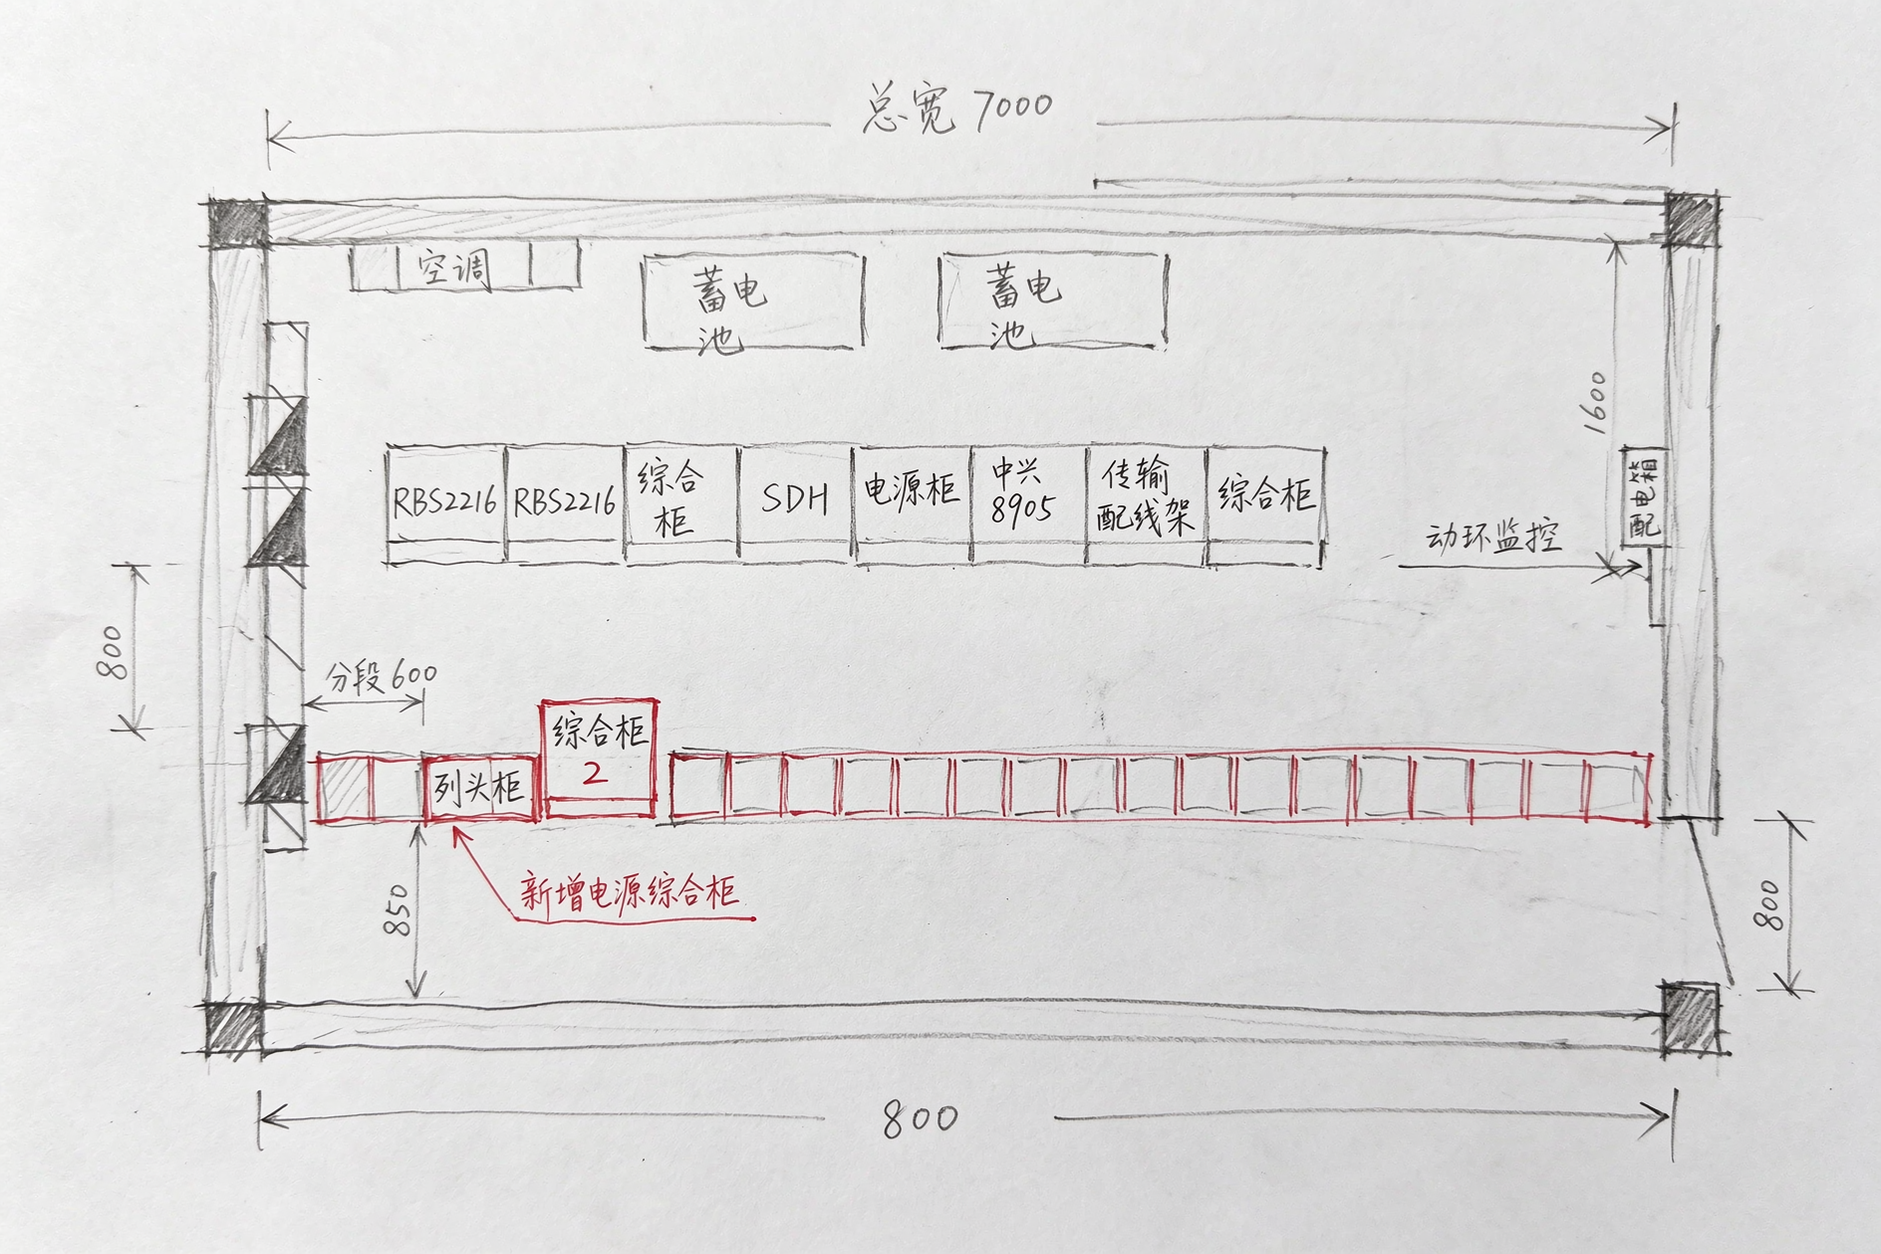
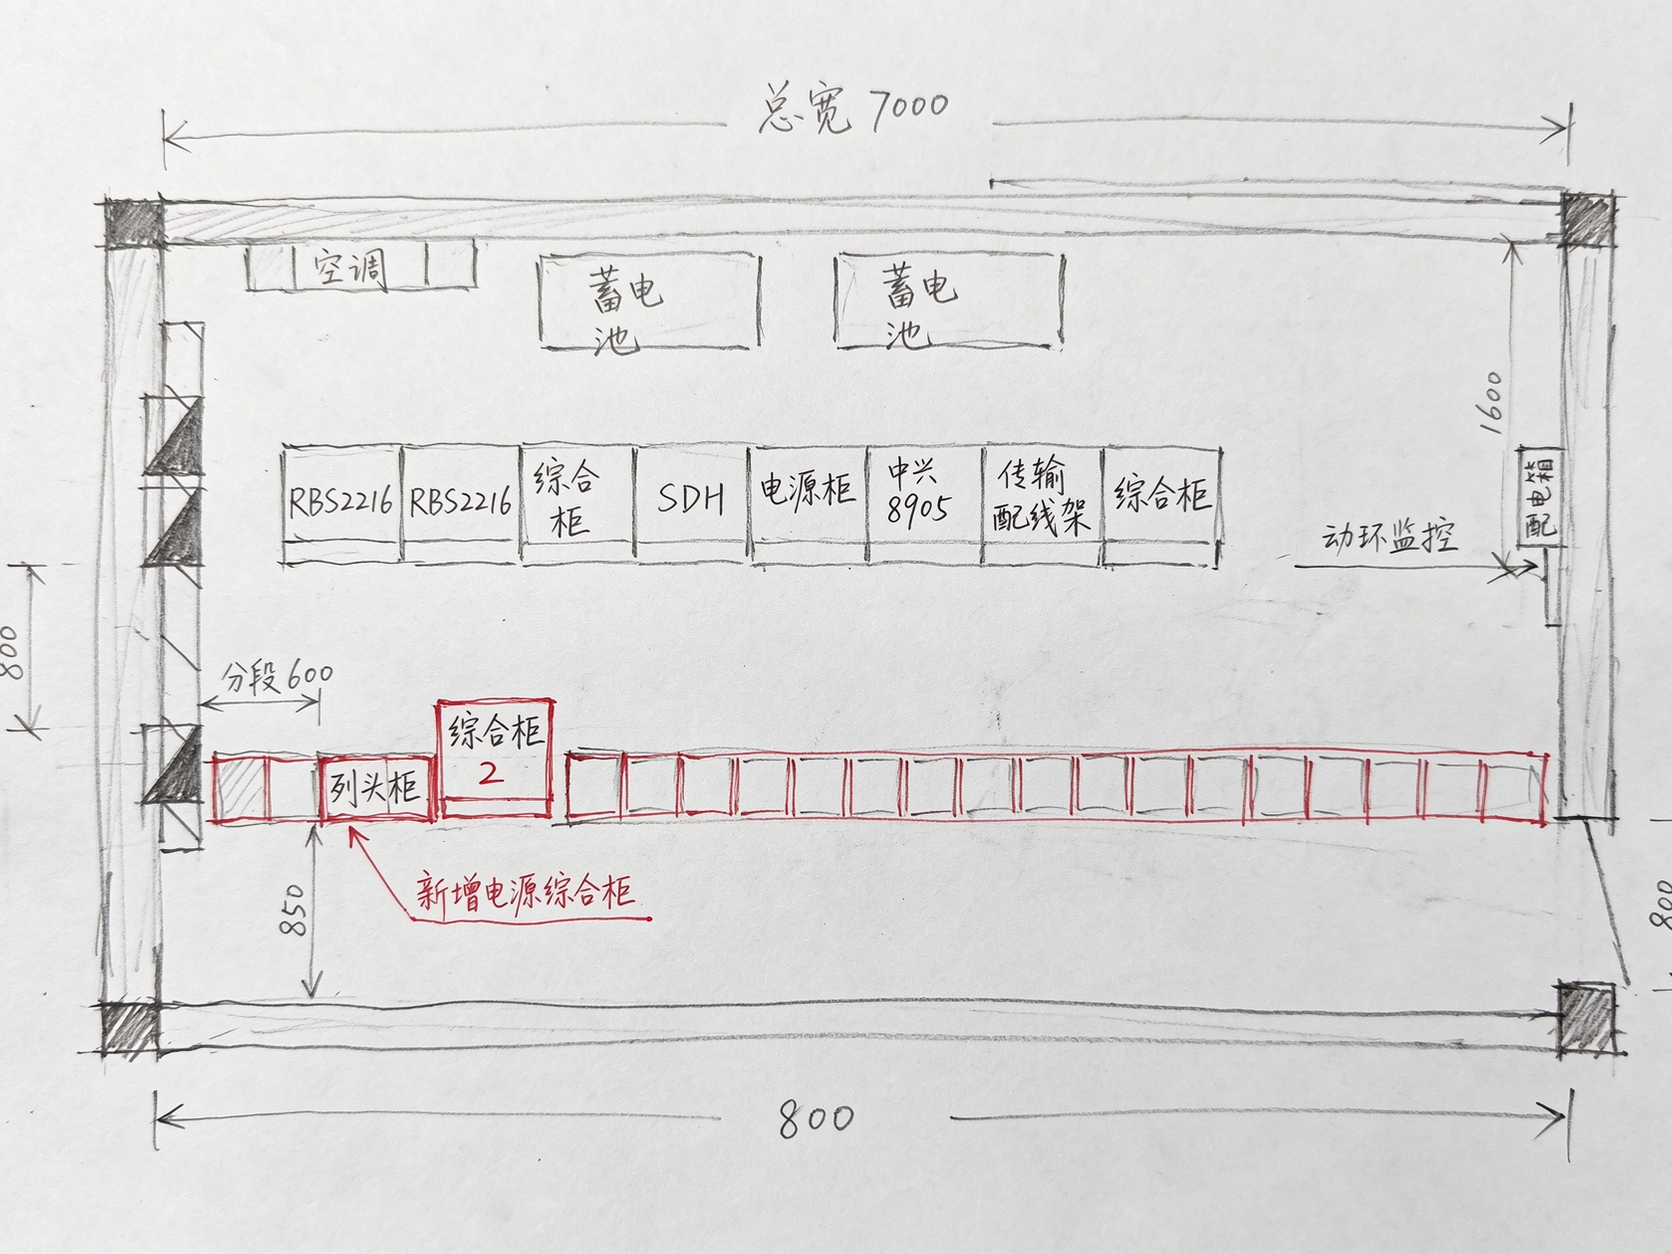
feat: 统一预览图为4:3，补充线条层级/负面约束/提示词结构，完善 README 兼容与输出说明

diff --git a/references/prompt-bank.md b/references/prompt-bank.md
@@ -9,6 +9,18 @@
 - **参差手写【强制】**：文字高低上下参差、基线起伏不成行、字号大小不一、微微歪斜、字距松紧不均；严禁印刷体、严禁工程仿宋、严禁整齐排版与对齐成行。
 - 线条手抖抖动、略带重描；纸面有轻微铅笔灰影、擦除痕和污渍。
 
+### 通用风格强化块（每套模板都应包含）
+
+```
+工程现场笔记 / 白板草稿质感；铅笔在白纸（米白纸面）上随手勾勒，线条有自然的粗细变化和轻微不完美，organic line variation；主线略粗、标注引线细、箭头为简单三角；纸面有淡铅笔灰影和橡皮擦痕。
+```
+
+### 通用负面约束块（每套模板都应追加）
+
+```
+排除：写实照片感、3D 渲染、CGI、图库配图、光滑数码矢量、完美笔直的线、印刷教材感、渐变填充、喷枪质感、立体光影、材质反射、商业海报排版；保持纯线稿，不上色块、不做灰度渐变。
+```
+
 ---
 
 ## 模板 1：机房设备布局平面图
@@ -40,3 +52,5 @@
 - 去批注色：`全部黑白铅笔线稿，去掉所有彩色批注。`
 - 保留墙体厚度：`外墙按原图绘制双线，表现墙体厚度。`
 - 工整笔记档：`线条收稳、文字偏清楚、涂改少，手写参差幅度减小，像整理过的现场笔记。`
+- 减少填充阴影：`不要任何色块和灰度阴影，只保留轮廓线和少量铅笔排线。`
+- 线条再放松：`线条再放松一些，允许轻微抖动和出头，不要描得过于规整。`

diff --git a/README.md b/README.md
@@ -26,6 +26,7 @@
 - **信息保真**：设备/杆路/天线位置、名称编号、尺寸标高、经纬度坐标、线路走向对照原图保留，不遗漏、不颠倒上下游。
 - **三档风格可调**：工整笔记体 / 标准草稿（默认）/ 凌乱狂草草稿。
 - **现场草稿质感**：手抖线条、重描涂改、圈注问号、纸面灰影与擦痕。
+- **线条层级清晰**：主线略粗、标注引线细、箭头简笔；纯线稿不上色块，主动排除写实、3D、光滑数码矢量等观感。
 
 ## 🗂 支持的三类图
 
@@ -78,6 +79,12 @@ git clone https://github.com/Mine1178/hand-drawn-sketch.git
 - **单色**：仅黑铅笔线稿 + 单一批注色；严禁第二种彩色。
 - **手写**：参差不成行、大小不一、微歪斜、字距不均；严禁印刷体与整齐排版。
 - **保真**：图元位置、名称编号、尺寸 / 标高 / 坐标与原图一致。
+
+## 🧩 兼容与输出
+
+- **兼容**：任何读取 `SKILL.md` 规范的 AI 智能体（Doubao、Claude Code、Codex、GitHub Copilot、Cursor 等）。
+- **输出**：单张 PNG 手绘草图；批量图纸逐张生成、逐张交付。
+- **输入**：机房布局图、光缆线路 / 路由站点图、天线安装图等规整工程图纸。
 
 ## 🤝 贡献
 
